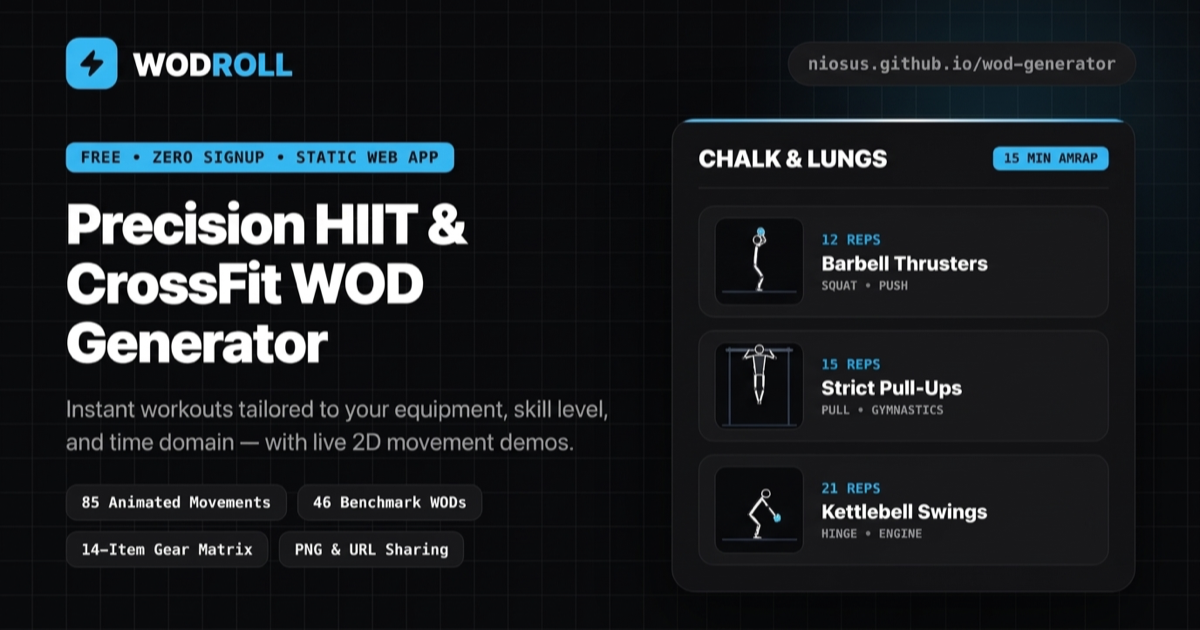
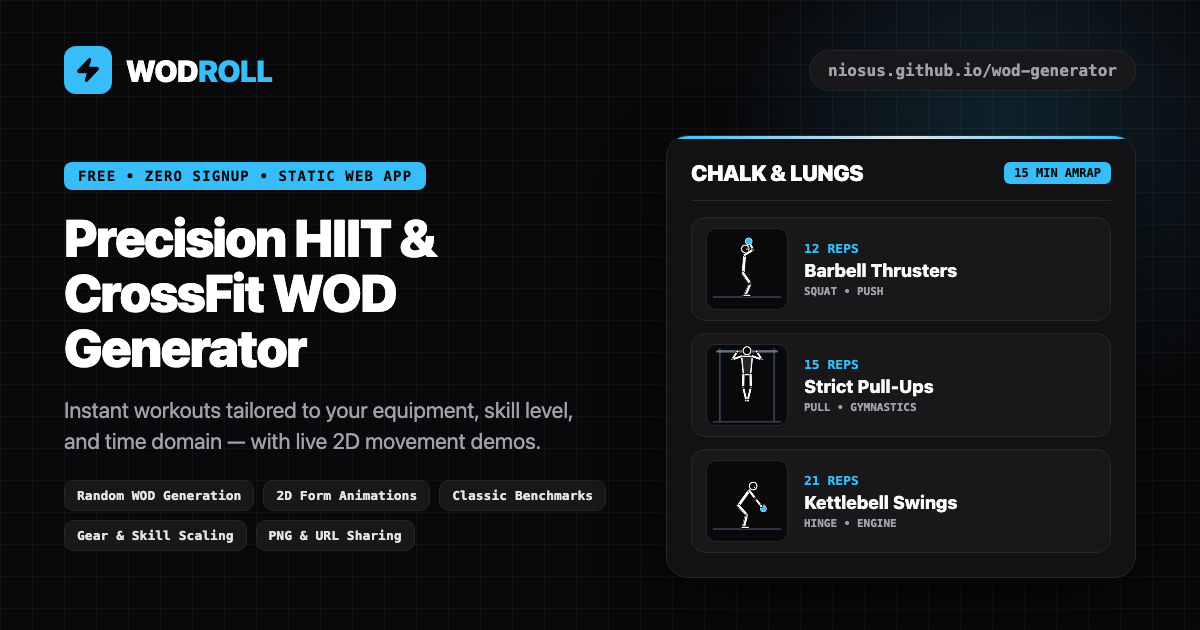
Remove specific numbers from offer summary

diff --git a/index.html b/index.html
@@ -6,7 +6,7 @@
   <meta name="viewport" content="width=device-width, initial-scale=1.0, maximum-scale=1.0, user-scalable=no" />
   <title>WODROLL — Precision HIIT &amp; CrossFit WOD Generator</title>
   <meta name="description"
-    content="Free, zero-signup CrossFit, Hyrox, and HIIT WOD generator tailored to your exact equipment, skill level, and timeframe — featuring 85 2D animated movements, 46 classic benchmarks, and instant URL &amp; PNG card sharing." />
+    content="Free, zero-signup CrossFit, Hyrox, and HIIT WOD generator tailored to your exact equipment, skill level, and timeframe — featuring 2D animated movements, classic benchmarks, random WOD generation, and instant URL &amp; PNG card sharing." />
   <link rel="canonical" href="https://niosus.github.io/wod-generator/" />
   <link rel="icon" type="image/svg+xml" href="favicon.svg" />
   <link rel="manifest" href="manifest.json" />
@@ -22,7 +22,7 @@
   <meta property="og:site_name" content="WODROLL" />
   <meta property="og:title" content="WODROLL — Precision HIIT &amp; CrossFit WOD Generator" />
   <meta property="og:description"
-    content="Generate CrossFit, Hyrox, and HIIT workouts tailored to your equipment, skill level, and timeframe. Includes 85 2D animated movements, 46 benchmark WODs, scaling ladders, and PNG/URL sharing." />
+    content="Generate CrossFit, Hyrox, and HIIT workouts tailored to your equipment, skill level, and timeframe. Includes random WOD generation, 2D animated movements, classic benchmark WODs, scaling ladders, and PNG/URL sharing." />
   <meta property="og:url" content="https://niosus.github.io/wod-generator/" />
   <meta property="og:image" content="https://niosus.github.io/wod-generator/og-image.png" />
   <meta property="og:image:width" content="1200" />
@@ -34,7 +34,7 @@
   <meta name="twitter:card" content="summary_large_image" />
   <meta name="twitter:title" content="WODROLL — Precision HIIT &amp; CrossFit WOD Generator" />
   <meta name="twitter:description"
-    content="Free, zero-signup CrossFit, Hyrox, and HIIT WOD generator with 85 2D animated movements, 46 benchmark WODs, and 14-item gear scaling." />
+    content="Free, zero-signup CrossFit, Hyrox, and HIIT WOD generator with random WOD generation, 2D animated movements, classic benchmark WODs, and custom gear scaling." />
   <meta name="twitter:image" content="https://niosus.github.io/wod-generator/og-image.png" />
   <meta name="twitter:image:alt"
     content="WODROLL — Precision HIIT &amp; CrossFit WOD Generator with 2D movement animations" />
@@ -47,7 +47,7 @@
       "name": "WODROLL",
       "url": "https://niosus.github.io/wod-generator/",
       "image": "https://niosus.github.io/wod-generator/og-image.png",
-      "description": "Free, zero-signup CrossFit, Hyrox, and HIIT WOD generator tailored to your equipment, skill level, and timeframe with 85 2D animated movements and 46 benchmark workouts.",
+      "description": "Free, zero-signup CrossFit, Hyrox, and HIIT WOD generator tailored to your equipment, skill level, and timeframe with random WOD generation, 2D animated movements, and classic benchmark workouts.",
       "applicationCategory": "HealthApplication",
       "operatingSystem": "Any",
       "isAccessibleForFree": true,
@@ -127,7 +127,7 @@
         <!-- All Movements & Scaling Progressions Library -->
         <button id="openScaleModalBtn"
           class="flex items-center gap-1.5 px-2 sm:px-2.5 py-1.5 rounded-lg bg-transparent hover:bg-zinc-100 dark:hover:bg-zinc-900 border border-transparent hover:border-zinc-200 dark:hover:border-zinc-800 text-xs font-medium text-zinc-600 dark:text-zinc-300 hover:text-zinc-950 dark:hover:text-white transition shrink-0"
-          title="Browse All 85 Movements &amp; Scaling Progressions">
+          title="Browse All Movements &amp; Scaling Progressions">
           <i data-lucide="layout-grid" class="w-3.5 h-3.5"></i>
           <span class="hidden sm:inline">Movements</span>
         </button>
@@ -451,13 +451,13 @@
         class="mt-2.5 pt-2.5 border-t border-zinc-200/70 dark:border-zinc-800/70 grid grid-cols-1 sm:grid-cols-2 gap-3 text-xs leading-relaxed text-zinc-600 dark:text-zinc-400">
         <p>
           <strong class="text-zinc-800 dark:text-zinc-200">Tailored to Your Gear:</strong>
-          Generate instant bodyweight, home-gym, minimal-equipment, or full-gym workouts across AMRAP, EMOM, For Time
-          (21-15-9 / 15-12-9), and Tabata formats for 10, 15, or 25+ minute sessions.
+          Generate random bodyweight, home-gym, minimal-equipment, or full-gym workouts across AMRAP, EMOM, For Time, and
+          Tabata formats for short, medium, or long sessions.
         </p>
         <p>
-          <strong class="text-zinc-800 dark:text-zinc-200">Animated Movements &amp; Classic benchmark workouts:</strong>
-          Includes multi-view 2D biomechanical stick-figure form demos, 8 collision-free scaling ladders, and classic
-          Girl, Hero, Hyrox, and Death By benchmark WODs with URL and PNG card sharing.
+          <strong class="text-zinc-800 dark:text-zinc-200">Animated Movements &amp; Classic Benchmarks:</strong>
+          Includes multi-view 2D biomechanical stick-figure form demos, collision-free scaling ladders, and classic Girl,
+          Hero, Hyrox, and Death By benchmark WODs with URL and PNG card sharing.
         </p>
       </div>
     </details>
@@ -671,7 +671,7 @@
             <div class="flex flex-wrap items-center gap-1.5">
               <button id="toggleShowAllMovementsBtn" type="button"
                 class="px-2.5 py-1 rounded-lg bg-zinc-100 dark:bg-zinc-800 hover:bg-zinc-200 dark:hover:bg-zinc-700 text-[11px] font-mono font-semibold text-zinc-700 dark:text-zinc-200 border border-zinc-200 dark:border-zinc-700 transition">
-                Show All 85 Movements
+                Show All Movements
               </button>
               <button id="enableAllMovementsBtn"
                 class="px-2.5 py-1 rounded-lg bg-zinc-100 dark:bg-zinc-800 hover:bg-zinc-200 dark:hover:bg-zinc-700 text-[11px] font-mono font-semibold text-zinc-700 dark:text-zinc-200 border border-zinc-200 dark:border-zinc-700 transition">
@@ -894,11 +894,11 @@
             class="inline-flex p-0.5 rounded-xl bg-zinc-100 dark:bg-zinc-950 border border-zinc-200 dark:border-zinc-800">
             <button data-scale-view="all" type="button"
               class="scale-view-btn px-3 py-1.5 rounded-lg text-xs font-semibold transition">
-              All Movements (85)
+              All Movements
             </button>
             <button data-scale-view="ladders" type="button"
               class="scale-view-btn px-3 py-1.5 rounded-lg text-xs font-semibold transition">
-              Scaling Ladders (8)
+              Scaling Ladders
             </button>
           </div>
 
